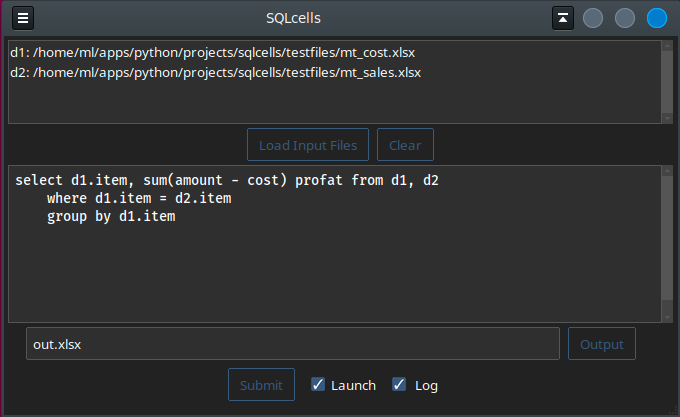
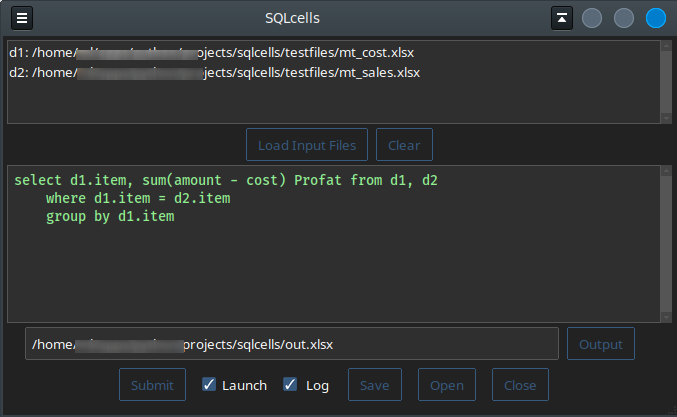
update

diff --git a/README.html b/README.html
@@ -5,6 +5,25 @@ A Python Desktop GUI</strong></p>
 <h3>Spreadsheet inputs and result</h3>
 <p><img alt="program" src="images/spreadsheets.png" title="spreadsheets" /></p>
 <p>When <em>Launch</em> is checked, the result is opened in LibreOffice Calc.<br />
-WHen <em>Log</em> is checked, the input file paths and SQL code is appended to a log file.</p>
+When <em>Log</em> is checked, the input file paths and SQL code is appended to a log file.</p>
+<p>There is a limit of seven input tables (files: spreadsheet or csv)</p>
 <p>Clicking on an input file lets you open the spreadsheet/csv or view the columns and data types.</p>
-<p>SQL queries can handle no more than six input files.</p>
+<p><img alt="program" src="images/viewing.png" title="SQLcells.py" /></p>
+<p>The following is an example of a saved query setup file. <em>sql_sample.txt</em></p>
+<pre><code>    d1: /home/user/python/projects/sqlcells/testfiles/sampledatainsnames.xlsx  
+    d2: /home/user/python/projects/sqlcells/testfiles/sampledatainsurance.xlsx  
+    SQL  
+    select d1.Policy, last_name, first_name, Expiry, State, InsuredValue  
+        from d1, d2  
+        order by State, Expiry, last_name
+
+    OUTPUT
+    /home/user/python/projects/sqlcells/out.xlsx
+    LAUNCH
+    LOG
+</code></pre>
+<p>An existing query can be run in an <em>unattended</em> or <em>batch mode</em> by using the saved query setup file
+as an argument at startup:</p>
+<pre><code>$ python3 sqlcells.py sql_sample.txt
+</code></pre>
+<p>The Launch and Log options will still apply as they were set when saved.</p>

diff --git a/sqlcells.py b/sqlcells.py
@@ -17,11 +17,12 @@ import pandas as pd
 import pandasql as psql
 from ttkbootstrap import *
 from ttkbootstrap.constants import *
+from ttkbootstrap.tooltip import ToolTip
 
 cdf = ""
 cfile = ""
 ctype = ""
-d1, d2, d3, d4, d5, d6 = "", "", "", "", "", ""
+d1, d2, d3, d4, d5, d6, d7 = "", "", "", "", "", "", ""
 ds = []
 
 
@@ -51,9 +52,11 @@ class Application(Frame):
 
         btn_input = Button(frm1, text='Load Input Files', bootstyle="outline", command=self.on_input)
         btn_input.grid(row=1, column=1, padx=4, pady=4)
+        ToolTip(btn_input, text="locate an .xlsx or .csv file for input")
 
         btn_clear = Button(frm1, text='Clear', bootstyle="outline", command=self.on_clear)
         btn_clear.grid(row=1, column=3, padx=4, pady=4)
+        ToolTip(btn_clear, text="remove all input files")
 
         self.sqltext = Text(self)
         self.sqltext.grid(row=3, column=1, sticky="nsew")
@@ -78,46 +81,87 @@ class Application(Frame):
 
 
         self.ventr = StringVar()
-        # self.ventr.trace("w", self.eventHandler)
         entr = Entry(frm2, textvariable=self.ventr, width=65)
         entr.grid(row=1, column=1, padx=0, pady=4)
-        self.ventr.set("out.xlsx")
+        ToolTip(entr, text="designate fullpath to query result file")
 
         btn_submit = Button(frm2, text='Output', bootstyle="outline", command=self.on_output)
         btn_submit.grid(row=1, column=2, padx=8, pady=4)
-
+        ToolTip(btn_submit, text="designate fullpath to query result file")
 
         frm3 = Frame(self)
         frm3.grid(row=5, column=1)
 
-
         btn_submit = Button(frm3, text='Submit', bootstyle="outline", command=self.on_submit)
         btn_submit.grid(row=1, column=1, padx=8, pady=4)
+        ToolTip(btn_submit, text="run the query")
 
         self.vckbox = IntVar()
         ckbox = Checkbutton(frm3, variable=self.vckbox, text='Launch')
         ckbox.grid(row=1, column=3, padx=8, pady=4)
-        self.vckbox.set(1)
+        ToolTip(ckbox, text="open resulting query in LibreOffice Calc")
 
         self.vSckbox = IntVar()
         Sckbox = Checkbutton(frm3, variable=self.vSckbox, text=' Log ')
         Sckbox.grid(row=1, column=4, padx=8, pady=4)
-        self.vSckbox.set(1)
+        ToolTip(Sckbox, text="record the query setup in the log file")
+
+        btn_save = Button(frm3, text='Save', bootstyle="outline", command=self.on_save)
+        btn_save.grid(row=1, column=5, padx=8, pady=4)
+        ToolTip(btn_save, text="Save this query setup to a file")
+
+        btn_open = Button(frm3, text='Open', bootstyle="outline", command=self.on_open)
+        btn_open.grid(row=1, column=6, padx=8, pady=4)
+        ToolTip(btn_open, text="Open a saved query setup file")
+
+        btn_close = Button(frm3, text='Close', bootstyle="outline", command=self.on_exit)
+        btn_close.grid(row=1, column=7, padx=8, pady=4)
+        ToolTip(btn_close, text="Ctrl-Q")
 
         root.bind("<Control-q>", self.on_exit)
-        self.read_saved_query('lastquery')
+
+        # to use sqlcells in a "batch" command line operation
+        # simply use a saved SQL setup file as argument 1
+        if len(sys.argv) > 0:
+            self.read_saved_query(sys.argv[1])
+            self.on_submit()
+            self.on_exit()
+        else:
+            self.read_saved_query('lastquery')  # open last query setup
 
     # ----------------------------------------------------------------------------
+
+    def on_save(self):
+        ''' select an output file (xlsx or csv) for the query '''
+        fname = filedialog.asksaveasfilename(confirmoverwrite=True,
+                                            initialdir=os.path.dirname(os.path.abspath(__file__)),
+                                            title = "Save Query",
+                                            filetypes = (("all files","*.*"),("text files","*.txt")) )
+        if fname:
+            self.save_query(fname)
+            messagebox.showinfo("Saved", fname)
+
+    def on_open(self):
+        fname =  filedialog.askopenfilename(initialdir = p,
+                                            title = "Open Query",
+                                            filetypes = (("all files","*.*"),("text files","*.txt")))
+        if fname:
+            self.read_saved_query(fname)
+
 
     def on_input(self):
         ''' set an input table (csv or excel file) '''
         fname =  filedialog.askopenfilename(initialdir = p,
-                                                         title = "Open file",
-                                                         filetypes = (("xlsx files","*.xlsx"),
-                                                         ("csv files","*.csv"),("all files","*.*")))
+                                            title = "Open file",
+                                            filetypes = (("xlsx files","*.xlsx"),
+                                            ("csv files","*.csv"),("all files","*.*")))
         if fname:
             try:
-                d = "d" + str(self.lstn.size() + 1)
+                s = self.lstn.size()
+                if s >= 7:
+                    messagebox.showwarning("Input Limit", "7 inputs max")
+                    return
+                d = "d" + str(s + 1)
                 self.lstn.insert(tk.END, d + ": " + fname)
             except:
                 messagebox.showerror("Open File", "Failed to open file\n'%s'" % fname)
@@ -185,6 +229,8 @@ class Application(Frame):
         and file type into cdf and cfile global vars '''
         global cdf, cfile, ctype
         items = strg.split(": ")
+        if len(items) == 0:
+            return
         cdf = items[0]
         cfile = items[1]
         if cfile.endswith("xlsx") or cfile.endswith("xls"):
@@ -197,7 +243,7 @@ class Application(Frame):
     def load_data_frames(self):
         ''' load data frames from the list of input files (tables)
         using global vars d1 ... d6 - MAX 6 files '''
-        global d1, d2, d3, d4, d5, d6, ds
+        global d1, d2, d3, d4, d5, d6, d7, ds
         ds.clear()
         items = list(self.lstn.get(0, tk.END))
         for f in items:
@@ -207,7 +253,7 @@ class Application(Frame):
             else:
                 df = pd.read_excel(cfile)
             ds.append(df)
-        # d1, d2, d3, d4, d5 = ds[0], ds[1], ds[2], ds[3], ds[4]
+        # d1, d2, d3, d4, d5 ... = ds[0], ds[1], ds[2], ds[3], ds[4] ...
         nds = len(items)
         if nds == 1:
             d1 = ds[0]
@@ -221,6 +267,8 @@ class Application(Frame):
             d1, d2, d3, d4, d5 = ds[0], ds[1], ds[2], ds[3], ds[4]
         elif nds == 6:
             d1, d2, d3, d4, d5, d6 = ds[0], ds[1], ds[2], ds[3], ds[4], ds[5]
+        elif nds == 7:
+            d1, d2, d3, d4, d5, d6, d7 = ds[0], ds[1], ds[2], ds[3], ds[4], ds[5], ds[6]
 
     def read_saved_query(self, filepath):
         ''' reads file of saved query code and displays in user's GUI '''
@@ -232,11 +280,21 @@ class Application(Frame):
                 self.lstn.insert(tk.END, line)
                 line = fin.readline().strip()
             while True:
-                line = fin.readline()
-                if line == '':
+                line = fin.readline()  # now reading the SQL lines (with EOLs)
+                if line == '' or line.startswith("OUTPUT"):
                     break
-                code += line
-        self.sqltext.insert(1.0, code)
+                code += line  # concatenate all the SQL lines
+            path = fin.readline().strip() # read the output path
+            # now read until end of file checking for LAUNCH and LOG
+            while line != '':
+                line = fin.readline().strip()
+                if line == "LAUNCH":
+                    self.vckbox.set(1)
+                if line == "LOG":
+                    self.vSckbox.set(1)
+        self.sqltext.delete("1.0", END)  # clear the Text widget
+        self.sqltext.insert(1.0, code)  # insert the SQL code
+        self.ventr.set(path)  # output path
 
     def save_query(self, filepath):
         ''' writes input file paths and SQL code to filepath '''
@@ -247,6 +305,13 @@ class Application(Frame):
             fout.write("SQL" + "\n")
             sql = self.sqltext.get("1.0", END)
             fout.write(sql)
+            fout.write("OUTPUT" + "\n")
+            outfile = self.ventr.get()
+            fout.write(outfile + "\n")
+            if self.vckbox.get() == 1:
+                fout.write("LAUNCH" + "\n")
+            if self.vSckbox.get() == 1:
+                fout.write("LOG" + "\n")
 
     def on_exit(self, e=None):
         ''' Control-Q saves the current query details '''
@@ -255,12 +320,13 @@ class Application(Frame):
 
     def prompt_info(self, e=None):
         ''' Does user want to see spreadsheet or only column names/types '''
-        print("got here")
-        request = simpledialog.askinteger("Spreadsheet Action",
-                                          "Enter 1 to open spreadsheet\nEnter 2 to view file Info",
-                                          parent=self,
-                                          initialvalue=1)
         list_item = self.lstn.get(ANCHOR)
+        if list_item == "":
+            return  # nothing selected
+        request = simpledialog.askinteger("Viewing",
+                            "Enter 1 to open spreadsheet\nEnter 2 to view file Info\n",
+                            parent=self,
+                            initialvalue=1)
         self.parse_input(list_item)
         if request == 1:
             if platform.system() == 'Windows':

diff --git a/README.md b/README.md
@@ -9,8 +9,32 @@ A Python Desktop GUI**
 ![program](images/spreadsheets.png "spreadsheets")
 
 When _Launch_ is checked, the result is opened in LibreOffice Calc.  
-WHen _Log_ is checked, the input file paths and SQL code is appended to a log file.
+When _Log_ is checked, the input file paths and SQL code is appended to a log file.
+
+There is a limit of seven input tables (files: spreadsheet or csv)
 
 Clicking on an input file lets you open the spreadsheet/csv or view the columns and data types.
 
-SQL queries can handle no more than six input files.
+![program](images/viewing.png "SQLcells.py")
+
+The following is an example of a saved query setup file. _sql\_sample.txt_
+
+        d1: /home/user/python/projects/sqlcells/testfiles/sampledatainsnames.xlsx  
+        d2: /home/user/python/projects/sqlcells/testfiles/sampledatainsurance.xlsx  
+        SQL  
+        select d1.Policy, last_name, first_name, Expiry, State, InsuredValue  
+        	from d1, d2  
+        	order by State, Expiry, last_name  
+
+        OUTPUT
+        /home/user/python/projects/sqlcells/out.xlsx
+        LAUNCH
+        LOG
+
+An existing query can be run in an _unattended_ or _batch mode_ by using the saved query setup file
+as an argument at startup:
+
+    $ python3 sqlcells.py sql_sample.txt
+
+The Launch and Log options will still apply as they were set when saved.
+
